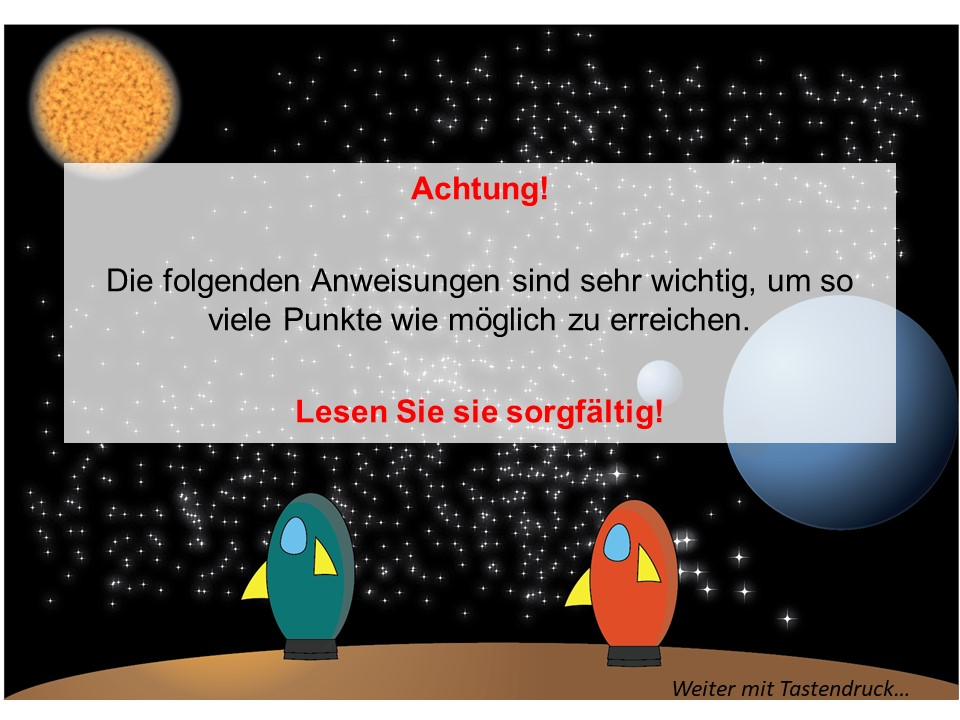
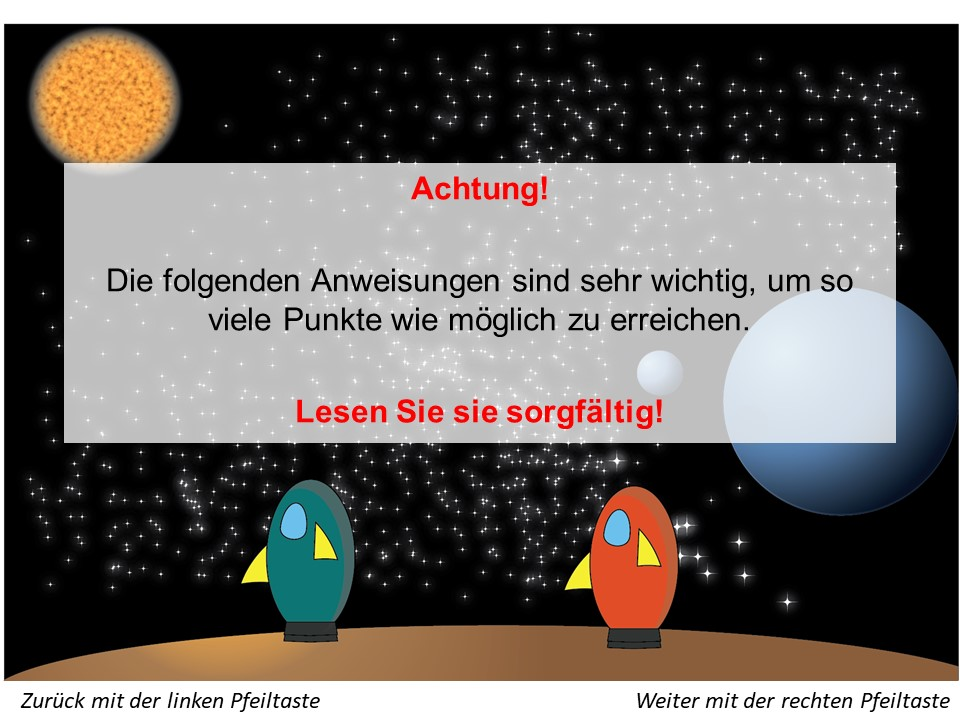
modified instructions; included trial time out
modified instructions;
included a time out after 4s in each trial so that the stimuli would not be presented forever if there is no response;
changed the data save directory and filename;
included counterbalancing of stimuli & devaluation only in first session and loading this in subsequent sessions to keep it constant within participants;
changed to a newer random number generator

diff --git a/experiment.m b/experiment.m
@@ -104,6 +104,7 @@ while exitExp == false
                 break
             end
             respToBeMade = 1;
+            hand = 0; %initialize no response, gets overwritten in case of response
             CurrentStim = 0; % Stimulus in this trial
             totalTrial = totalTrial +1;
             diamPosit_free = round(rand() + 1); %position of the diamonds if free consumption trial
@@ -131,7 +132,7 @@ while exitExp == false
                 %Start timing
                 tStart = GetSecs;
                 %Start response screen
-                while respToBeMade == 1
+                while respToBeMade == 1 && ((GetSecs - tStart) <= 4)
                     %Drawing response options
                     if CurrentStim == 5
                         if diamPosit_free == 1

diff --git a/alienSetup.m b/alienSetup.m
@@ -14,8 +14,8 @@ HideCursor();
 % Seed the random number generator. Here we use the an older way to be
 % compatible with older systems. Newer syntax would be rng('shuffle'). Look
 % at the help function of rand "help rand" for more information
-rand('seed', sum(100 * clock));
-
+% rand('seed', sum(100 * clock));
+rng('shuffle')
 
 % Set the screen number to the external secondary monitor if there is one
 % connected
